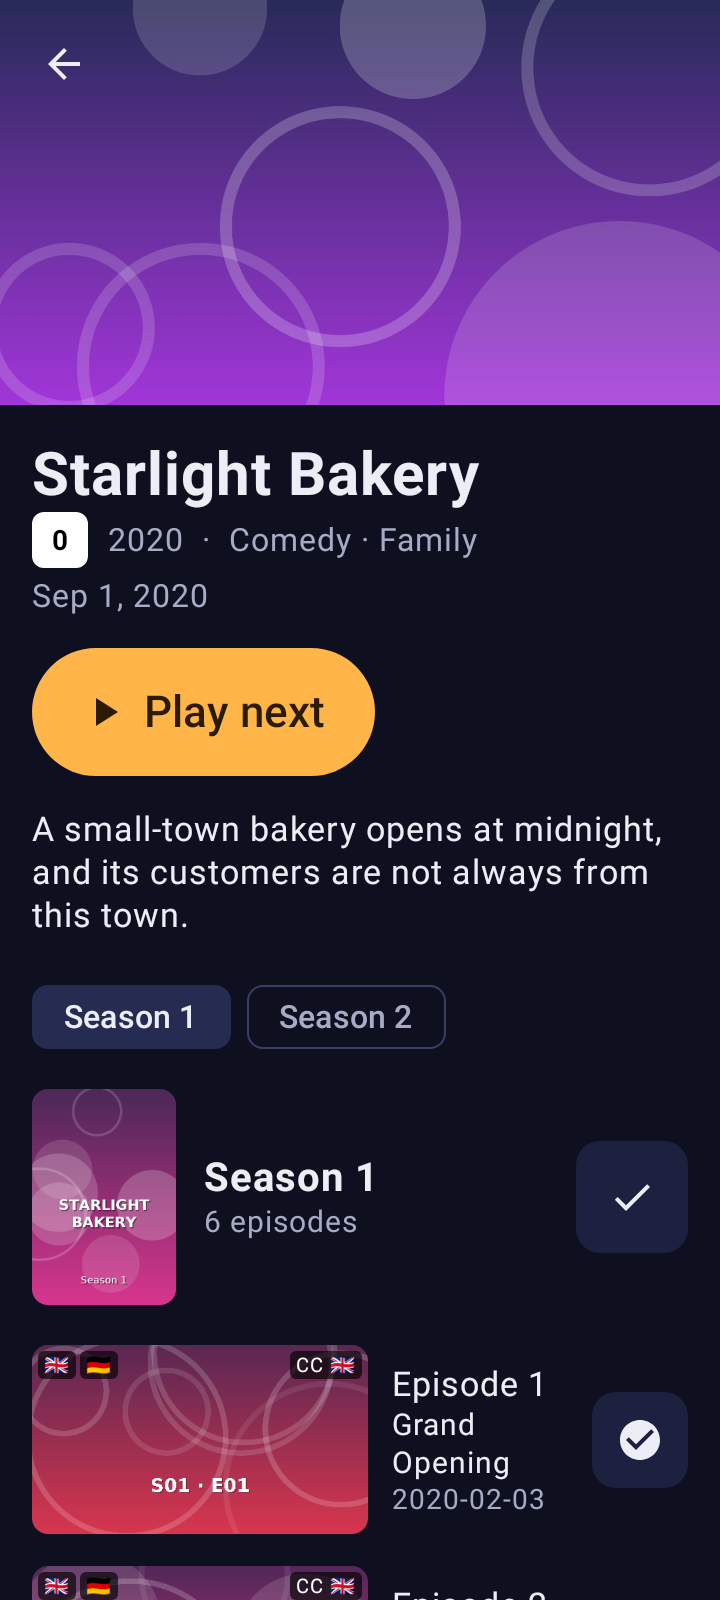
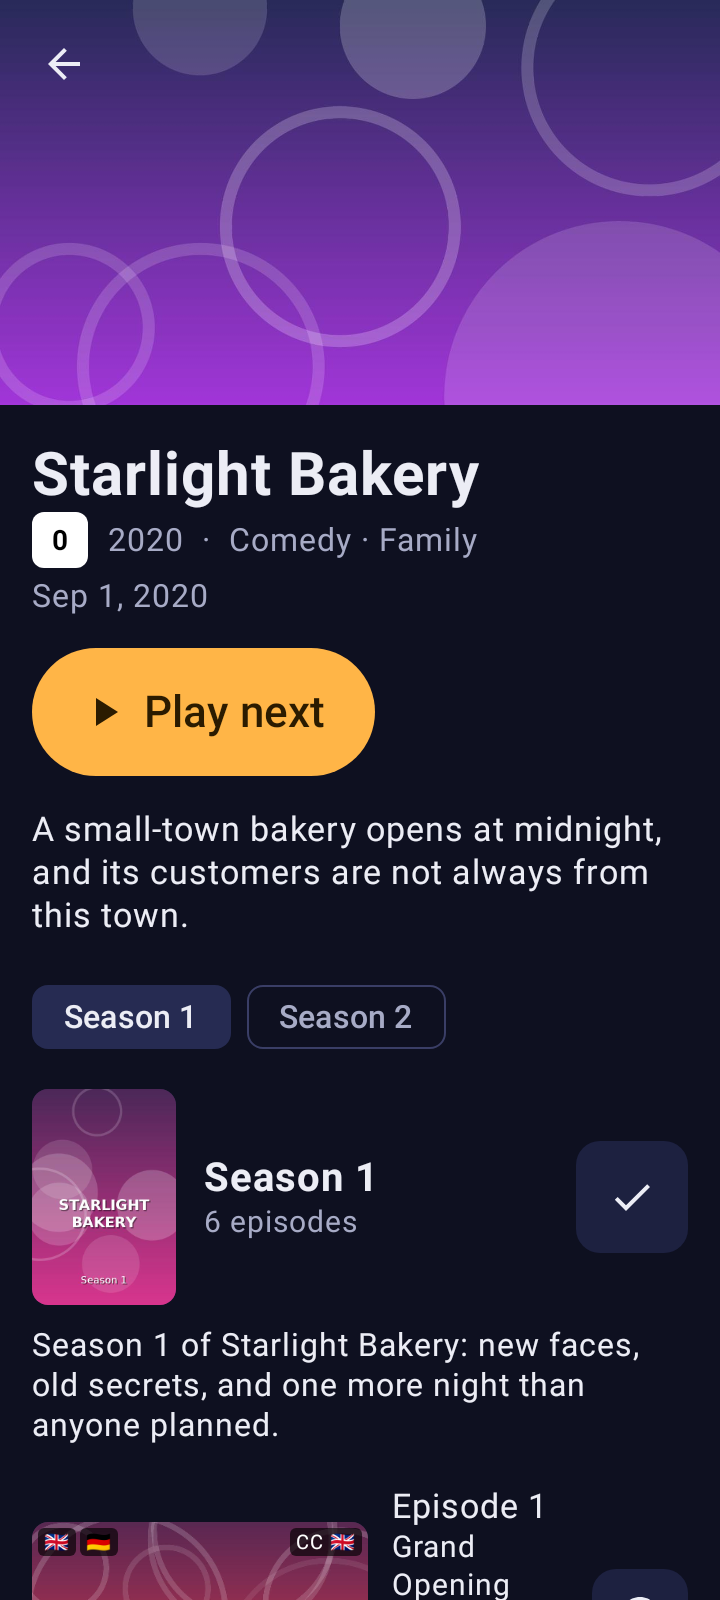
+ the details show what each season and episode is about, under the play button and above the File section, as they do for films and shows (closes #102) + season.nfo is read (Kodi's <season> with <plot> or <outline>); episodes keep their NFO plot, else its outline * the demo library carries season a
+ the details show what each season and episode is about, under the play
button and above the File section, as they do for films and shows
(closes #102)
+ season.nfo is read (Kodi's <season> with <plot> or <outline>);
episodes keep their NFO plot, else its outline
* the demo library carries season and episode plots, so the details
screenshot shows them

---------

Changed region(s): [[0.0306, 0.8125, 0.9778, 1.0], [0.825, 0.9688, 0.9472, 1.0]]

diff --git a/app/src/main/kotlin/com/hawkynt/mediadroid/ui/Details.kt b/app/src/main/kotlin/com/hawkynt/mediadroid/ui/Details.kt
@@ -198,6 +198,7 @@ fun DetailsScreen(
                     season?.posterPath ?: season?.representativeThumb,
                     season?.representativeVideo,
                     watched = season != null && store.marks.isWatched(season),
+                    plot = season?.plot,
                     onToggleWatched = {
                         season?.let {
                             store.setWatched(it.episodes.map { e -> e.videoPath }, !store.marks.isWatched(it))
@@ -357,6 +358,16 @@ private fun EpisodeRow(season: Int, episode: Episode, store: StateStore, onClick
             episode.firstAired?.let {
                 Text(it, fontSize = 14.sp, color = MaterialTheme.colorScheme.onSurfaceVariant)
             }
+            episode.plot?.let {
+                Text(
+                    it,
+                    fontSize = 14.sp,
+                    color = MaterialTheme.colorScheme.onSurfaceVariant,
+                    maxLines = 3,
+                    overflow = androidx.compose.ui.text.style.TextOverflow.Ellipsis,
+                    modifier = Modifier.padding(top = 2.dp),
+                )
+            }
         }
         Spacer(Modifier.width(8.dp))
         WatchedToggle(watched, onToggle = { store.setWatched(listOf(episode.videoPath), !watched) }, size = 48.dp)
@@ -389,32 +400,34 @@ private fun SeasonHeader(
     videoPath: String?,
     watched: Boolean,
     onToggleWatched: () -> Unit,
+    plot: String? = null,
 ) {
-    Row(
-        verticalAlignment = Alignment.CenterVertically,
-        modifier = Modifier.fillMaxWidth().padding(horizontal = 16.dp, vertical = 12.dp),
-    ) {
-        if (posterPath != null || videoPath != null) {
-            Box(
-                modifier = Modifier
-                    .width(72.dp)
-                    .aspectRatio(2f / 3f)
-                    .clip(RoundedCornerShape(8.dp))
-                    .background(MaterialTheme.colorScheme.surfaceVariant),
-            ) {
-                PosterImage(posterPath, videoFallback = videoPath, contentScale = ContentScale.Crop)
+    Column(Modifier.fillMaxWidth().padding(horizontal = 16.dp, vertical = 12.dp)) {
+        Row(verticalAlignment = Alignment.CenterVertically, modifier = Modifier.fillMaxWidth()) {
+            if (posterPath != null || videoPath != null) {
+                Box(
+                    modifier = Modifier
+                        .width(72.dp)
+                        .aspectRatio(2f / 3f)
+                        .clip(RoundedCornerShape(8.dp))
+                        .background(MaterialTheme.colorScheme.surfaceVariant),
+                ) {
+                    PosterImage(posterPath, videoFallback = videoPath, contentScale = ContentScale.Crop)
+                }
+                Spacer(Modifier.width(14.dp))
             }
-            Spacer(Modifier.width(14.dp))
+            Column(Modifier.weight(1f)) {
+                Text(seasonName(number), fontSize = 20.sp, fontWeight = FontWeight.Bold)
+                Text(
+                    if (episodeCount == 1) "1 episode" else "$episodeCount episodes",
+                    fontSize = 15.sp,
+                    color = MaterialTheme.colorScheme.onSurfaceVariant,
+                )
+            }
+            if (episodeCount > 0) WatchedToggle(watched, onToggle = onToggleWatched)
         }
-        Column(Modifier.weight(1f)) {
-            Text(seasonName(number), fontSize = 20.sp, fontWeight = FontWeight.Bold)
-            Text(
-                if (episodeCount == 1) "1 episode" else "$episodeCount episodes",
-                fontSize = 15.sp,
-                color = MaterialTheme.colorScheme.onSurfaceVariant,
-            )
-        }
-        if (episodeCount > 0) WatchedToggle(watched, onToggle = onToggleWatched)
+        // What the season is about, from its season.nfo.
+        plot?.let { Text(it, fontSize = 16.sp, modifier = Modifier.padding(top = 10.dp)) }
     }
 }
 

diff --git a/core/library/src/main/kotlin/com/hawkynt/mediadroid/library/LibraryScanner.kt b/core/library/src/main/kotlin/com/hawkynt/mediadroid/library/LibraryScanner.kt
@@ -13,6 +13,7 @@ import com.hawkynt.mediadroid.nfo.findArt
 import com.hawkynt.mediadroid.nfo.minAgeOf
 import com.hawkynt.mediadroid.nfo.parseEpisodeNfo
 import com.hawkynt.mediadroid.nfo.parseMovieNfo
+import com.hawkynt.mediadroid.nfo.parseSeasonNfo
 import com.hawkynt.mediadroid.nfo.parseShowNfo
 import java.io.File
 
@@ -61,6 +62,7 @@ object LibraryScanner {
                     number,
                     list.flatMap { it.episodes }.distinctBy { it.videoPath }.sortedBy { it.number },
                     list.firstNotNullOfOrNull { it.posterPath },
+                    list.firstNotNullOfOrNull { it.plot },
                 )
             }
             .sortedBy { it.number }
@@ -239,7 +241,10 @@ object LibraryScanner {
                 .sortedBy { it.number }
             val poster = findArt(siblings)[ArtKind.Poster]?.let { sub.child(it).path }
                 ?: seasonPoster(dir, showNames, number)
-            if (episodes.isEmpty()) null else Season(number, episodes, poster)
+            val plot = siblings.firstOrNull { it.equals("season.nfo", ignoreCase = true) }
+                ?.let { sub.child(it).readTextSafe() }
+                ?.let { runCatching { parseSeasonNfo(it) }.getOrNull()?.plot }
+            if (episodes.isEmpty()) null else Season(number, episodes, poster, plot)
         }
         // …and virtual seasons from episode-named files sitting loose in the show
         // folder itself: `s02e01.mkv` belongs to season 2 whether or not a folder says so,
@@ -257,7 +262,7 @@ object LibraryScanner {
             .groupBy { it.number }
             .map { (number, list) ->
                 val episodes = list.flatMap { it.episodes }.sortedBy { it.number }
-                Season(number, episodes, list.firstNotNullOfOrNull { it.posterPath })
+                Season(number, episodes, list.firstNotNullOfOrNull { it.posterPath }, list.firstNotNullOfOrNull { it.plot })
             }
             .sortedBy { it.number }
 
@@ -299,6 +304,7 @@ object LibraryScanner {
             number = nfo?.episode ?: ref!!.episode,
             title = nfo?.title ?: ReleaseName.episodeTitle(stem),
             firstAired = nfo?.firstAired,
+            plot = nfo?.plot ?: nfo?.outline,
             watched = (nfo?.playcount ?: 0) > 0,
             videoPath = video.path,
             thumbPath = thumb?.let { video.folder.child(it).path },

diff --git a/app/src/test/kotlin/com/hawkynt/mediadroid/screenshots/DemoLibrary.kt b/app/src/test/kotlin/com/hawkynt/mediadroid/screenshots/DemoLibrary.kt
@@ -134,6 +134,10 @@ object DemoLibrary {
                 val season = s + 1
                 val seasonDir = File(dir, "Season %02d".format(season)).apply { mkdirs() }
                 poster(File(seasonDir, "folder.jpg"), show.title, null, caption = "Season $season")
+                File(seasonDir, "season.nfo").writeText(
+                    "<season><plot>Season $season of ${xml(show.title)}: new faces, old secrets, " +
+                        "and one more night than anyone planned.</plot></season>",
+                )
                 titles.forEachIndexed { e, title ->
                     val stem = "S%02dE%02d - %s".format(season, e + 1, title)
                     File(seasonDir, "$stem.mkv").writeBytes(ByteArray(0))
@@ -164,6 +168,7 @@ object DemoLibrary {
 
     private fun episodeNfo(title: String, season: Int, episode: Int, year: Int, watched: Boolean): String =
         "<episodedetails><title>${xml(title)}</title><season>$season</season><episode>$episode</episode>" +
+            "<plot>${xml(title)}: a quiet start turns into a long night, and nobody leaves the way they came in.</plot>" +
             "<aired>${year + season - 1}-%02d-%02d</aired>".format(1 + episode % 12, 1 + episode * 2) +
             (if (watched) "<playcount>1</playcount>" else "") +
             streamDetails(listOf("eng", "ger"), listOf("eng")) +

diff --git a/core/library/src/test/kotlin/com/hawkynt/mediadroid/library/LibraryScannerTest.kt b/core/library/src/test/kotlin/com/hawkynt/mediadroid/library/LibraryScannerTest.kt
@@ -471,5 +471,28 @@ class LibraryScannerTest {
         assertEquals("Coco (2017)-trailer.mkv", movies.first { it.title == "Coco" }.trailerPath?.let { File(it).name })
         assertNull(movies.first { it.title == "Alien" }.trailerPath)
     }
+
+    @Test
+    fun seasonsAndEpisodesCarryTheirDescriptions() {
+        file("Dark/tvshow.nfo", "<tvshow><title>Dark</title><plot>A town, a cave.</plot></tvshow>")
+        file("Dark/Season 01/season.nfo", "<season><plot>Jonas looks for Mikkel.</plot></season>")
+        file("Dark/Season 01/Dark.S01E01.mkv")
+        file(
+            "Dark/Season 01/Dark.S01E01.nfo",
+            "<episodedetails><title>Secrets</title><plot>A boy goes missing.</plot></episodedetails>",
+        )
+        file("Dark/Season 01/Dark.S01E02.mkv")
+        file(
+            "Dark/Season 01/Dark.S01E02.nfo",
+            "<episodedetails><title>Lies</title><outline>Ulrich searches.</outline></episodedetails>",
+        )
+
+        val dark = LibraryScanner.scan(folder.root).shows.single()
+
+        assertEquals("A town, a cave.", dark.plot)
+        val season = dark.seasons.single()
+        assertEquals("Jonas looks for Mikkel.", season.plot)
+        assertEquals(listOf("A boy goes missing.", "Ulrich searches."), season.episodes.map { it.plot })
+    }
 }
 

diff --git a/core/nfo/src/test/kotlin/com/hawkynt/mediadroid/nfo/SeasonNfoTest.kt b/core/nfo/src/test/kotlin/com/hawkynt/mediadroid/nfo/SeasonNfoTest.kt
@@ -1,0 +1,33 @@
+package com.hawkynt.mediadroid.nfo
+
+import org.junit.Assert.assertEquals
+import org.junit.Assert.assertNull
+import org.junit.Test
+
+class SeasonNfoTest {
+
+    @Test
+    fun aSeasonNfoGivesItsTitleAndPlot() {
+        val info = parseSeasonNfo(
+            """
+            <?xml version="1.0" encoding="UTF-8" standalone="yes"?>
+            <season>
+              <title>The Beginning</title>
+              <plot>Jonas looks for Mikkel.</plot>
+              <seasonnumber>1</seasonnumber>
+            </season>
+            """.trimIndent(),
+        )
+        assertEquals("The Beginning", info.title)
+        assertEquals("Jonas looks for Mikkel.", info.plot)
+        assertEquals(1, info.number)
+    }
+
+    @Test
+    fun anOutlineStandsInForAMissingPlotAndNothingIsRequired() {
+        assertEquals("Short.", parseSeasonNfo("<season><outline>Short.</outline></season>").plot)
+        val empty = parseSeasonNfo("<season/>")
+        assertNull(empty.title)
+        assertNull(empty.plot)
+    }
+}

diff --git a/core/library/src/main/kotlin/com/hawkynt/mediadroid/library/MediaItem.kt b/core/library/src/main/kotlin/com/hawkynt/mediadroid/library/MediaItem.kt
@@ -112,6 +112,8 @@ data class Season(
     val episodes: List<Episode> = emptyList(),
     /** The season's own cover: `folder.jpg` in its folder, or `seasonNN-poster.jpg` beside the show. */
     val posterPath: String? = null,
+    /** What the season is about, from its `season.nfo`; null when it has none. */
+    val plot: String? = null,
 ) {
     private val firstEpisode: Episode? get() = episodes.minByOrNull { it.number }
 
@@ -127,6 +129,8 @@ data class Episode(
     val number: Int,
     val title: String? = null,
     val firstAired: String? = null,
+    /** What the episode is about, from its NFO (its plot, else its outline). */
+    val plot: String? = null,
     val watched: Boolean = false,
     val videoPath: String = "",
     val thumbPath: String? = null,

diff --git a/core/nfo/src/main/kotlin/com/hawkynt/mediadroid/nfo/SeasonNfo.kt b/core/nfo/src/main/kotlin/com/hawkynt/mediadroid/nfo/SeasonNfo.kt
@@ -1,0 +1,14 @@
+package com.hawkynt.mediadroid.nfo
+
+/** A season as a Kodi `season.nfo` in its folder describes it; every field may be missing. */
+data class SeasonInfo(val title: String? = null, val plot: String? = null, val number: Int? = null)
+
+/** Reads a `season.nfo` (root `<season>`); the outline stands in for a missing plot. */
+fun parseSeasonNfo(xml: String): SeasonInfo {
+    val root = parseNfoXml(xml).rootElement()
+    return SeasonInfo(
+        title = root.childText("title"),
+        plot = root.childText("plot") ?: root.childText("outline"),
+        number = root.childInt("seasonnumber"),
+    )
+}

diff --git a/README.md b/README.md
@@ -82,7 +82,7 @@ Media libraries on Android are usually either a raw file browser or a client of 
 - Walls of 30 titles or more in title order get an A–Z rail along the edge; touching or dragging along it jumps to the letter (accents fold in, `Ä` is `A`; digits are `#`), and the letter shows big while dragging.
 - The same film found more than once — the same title and year, say 1080p and 4K, or two language cuts — is one card with a small file count. Its details list every file with its resolution, HDR, audio and language badges and size, each one tap from playing; Play takes the one with a resume point, else the best picture (resolution, then HDR, then the bigger file), and a watched mark on any of them counts for the film.
 - Filter by genre and year, group by decade, facet counts as you browse.
-- A film's details add, where the NFO has them, the rating, release date, director and studio; a *Trailer* button when a `<name>-trailer.*` sits beside it (trailers stay off the wall); and a *File* section, folded away until opened, with the path, size, container, every video, audio and subtitle track and which decoder plays each here — the device's own, in hardware or software, or the bundled FFmpeg.
+- A film's details add, where the NFO has them, the rating, release date, director and studio; a *Trailer* button when a `<name>-trailer.*` sits beside it (trailers stay off the wall); and descriptions for the show, each season (its `season.nfo`) and each episode, under the play button; and a *File* section, folded away until opened, with the path, size, container, every video, audio and subtitle track and which decoder plays each here — the device's own, in hardware or software, or the bundled FFmpeg.
 - Settings list every source the library is read from, each with its own name: the media folder chosen at the start, further folders on the device, Windows / Samba shares (SMB 2/3, with user and password or as guest; servers announcing themselves on the local network are offered with one tap), NFS exports (NFSv3, by export path and user id; the export must allow connections from non-privileged ports, as an app cannot use the privileged ones), FTP and FTPS (passive mode) SFTP (password or SSH key; the server's host key is kept on first use and a changed one refused) WebDAV folders — Nextcloud, ownCloud, NAS web shares — by their address, user and password, each tested before saving; and cloud folders — Google Drive, OneDrive, Dropbox, Nextcloud and anything else that installs an Android document provider — picked in the system's own folder picker like a local folder, so the app itself stores no cloud password. Each source's scan is kept on the device: the walls appear at once on start and offline, and a rescan reads again only the NFOs and EDLs that changed (by size and modification time). A source that cannot be reached keeps its titles on the walls, greyed out with "not reachable right now". Videos on a source stream with up to two minutes buffered ahead, so 4K over Wi-Fi rides out the dips; resume, binge, intro and credit skipping (chapters and EDLs), badges and thumbnails work as for local files, and frames and badges are probed once and cached. The walls merge them — a film found on two sources is one card with both files — and videos on a share stream straight from it, with their posters and thumbs fetched once and kept small on the device. Passwords live encrypted under a key in the Android Keystore, never in the state file; a source that cannot be reached shows as "not reachable right now" in Settings.
 - A Files entry in the sidebar browses storage as it really is, like a file manager: the internal storage, SD cards and USB drives, not only the media library. Nothing is renamed or grouped — folders and files keep their real names — but what sits beside them counts: a video's NFO gives it its title, plot, age badge and watched state, `folder.jpg` / `poster.*` is a folder's cover and `<name>.jpg`, `<name>-poster.*` or `<name>-thumb.*` a video's picture, falling back to a frame from the video. Folders come first, then videos with their picture, duration, size and quality badges, sorted by name (as numbers read, `2` before `10`), date or size. Tapping a video plays it with resume; binge mode goes on to the next video in the folder in that order, and Play on a folder starts with its first. Every saved network and cloud source is listed beside the volumes and browsed the same way.
 - Genres and Years are places in the sidebar too: a list of genres or decades with their counts and a strip of posters each, for Movies or TV Shows; tapping one opens that wall narrowed to it, with *Clear filters* to get back.
